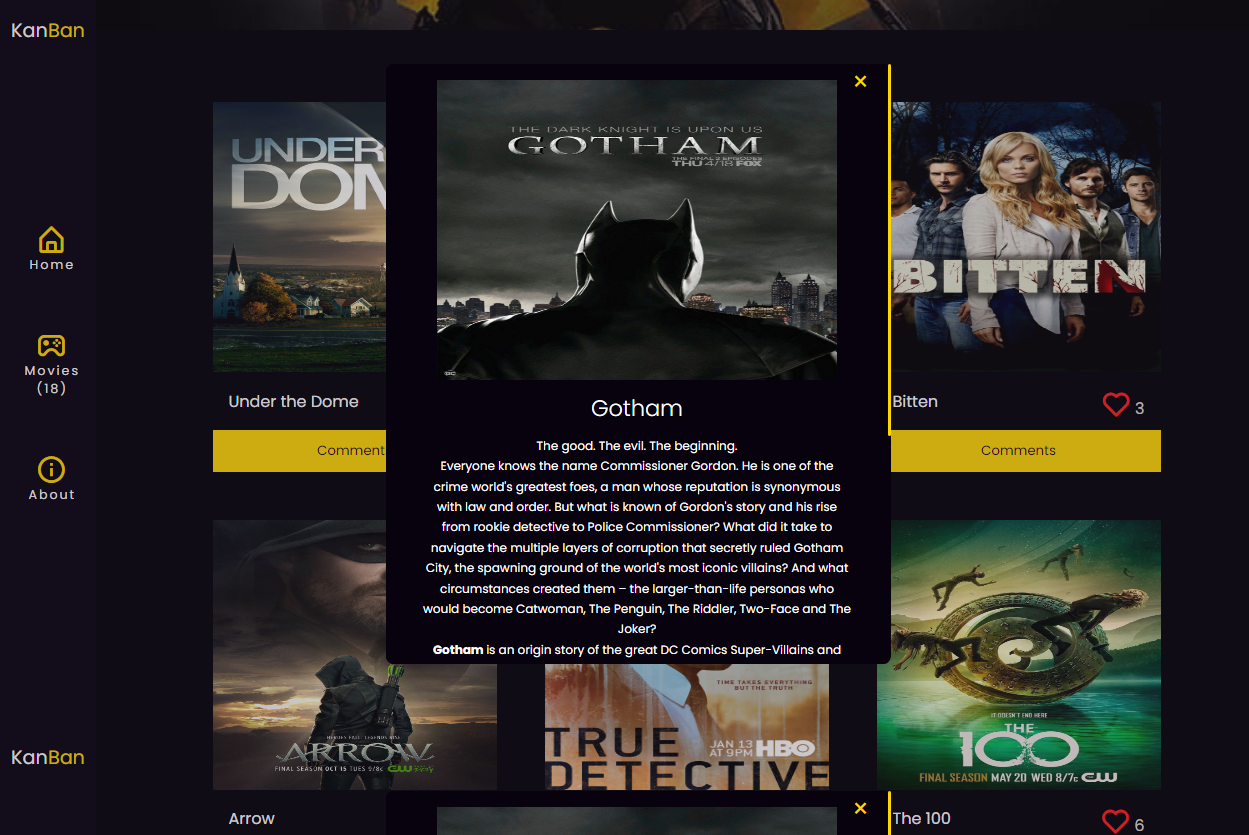
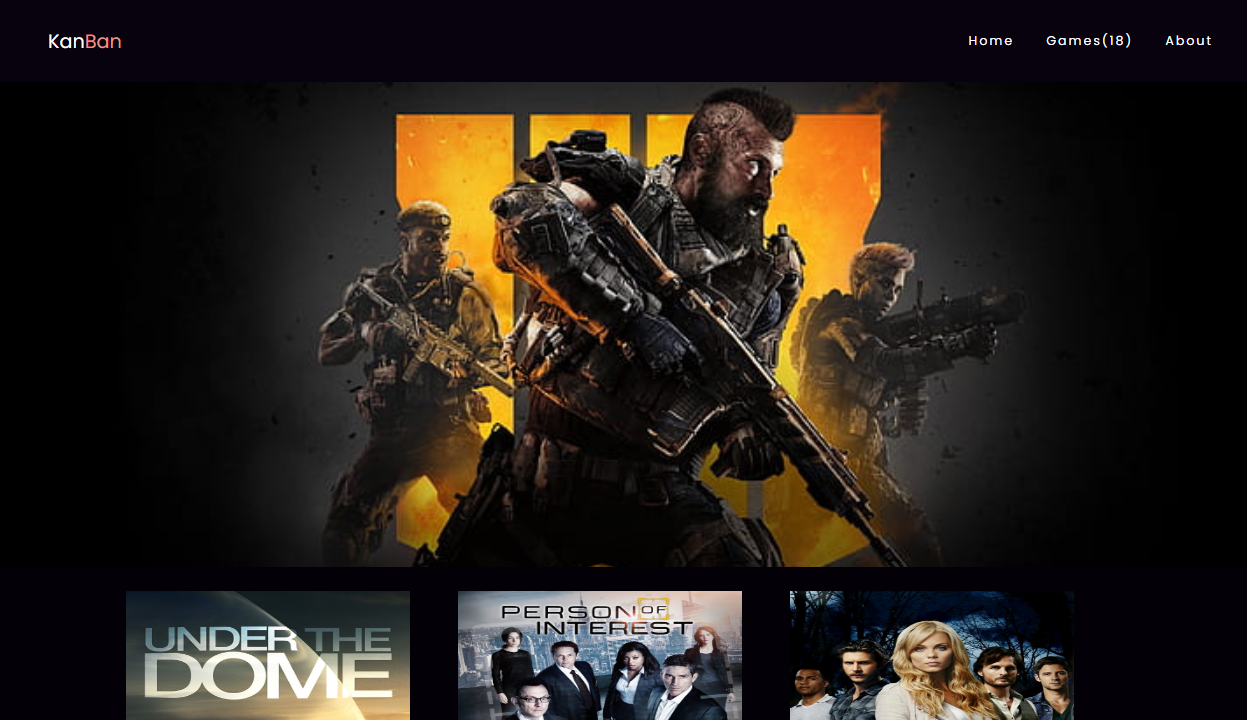
Update color

diff --git a/src/module/modal.js b/src/module/modal.js
@@ -20,7 +20,7 @@ const modal = async (data, index) => {
       <div class="comment-details">
         <h2 class="heading">Comments <span>(${commentData.length})</span></h2>`;
   commentData.map((comment) => modalContainer.innerHTML += `<div class="comment flex">
-          <p class="comment-date">${comment.creation_date}</p>
+          <p class="comment-date">${comment.creation_date} ${comment.username} :</p>
           <p class="comment-msg">${comment.comment}</p>
           </div>
           `);
@@ -28,12 +28,14 @@ const modal = async (data, index) => {
     </div>
     <div class="comment-form">
       <form class="">
+      <h2 class="heading">Add a comment</h2>
         <input type="text" placeholder="Enter your name" />
         <textarea placeholder="Enter your comment here"></textarea>
         <button type="submit" class="btn flex">Submit</button>
       </form>
       <i class='bx bx-x'></i>
     </div>`;
+
   const form = document.querySelector('form');
   form.addEventListener('submit', (e) => {
     e.preventDefault();

diff --git a/src/module/getData.js b/src/module/getData.js
@@ -1,13 +1,14 @@
 /* eslint-disable import/no-cycle */
 import cards from './cards.js';
+import counter from './counter.js';
 
 const getData = async () => {
   const response = await fetch('https://api.tvmaze.com/shows');
   const getJsonObj = await response.json();
   const result = getJsonObj.slice(0, 18);
-  const likes = await fetch(
-    'https://us-central1-involvement-api.cloudfunctions.net/capstoneApi/apps/5cAzmpr4jeQVeyEjNyKs/likes',
-  );
+  counter(result.length);
+
+  const likes = await fetch('https://us-central1-involvement-api.cloudfunctions.net/capstoneApi/apps/5cAzmpr4jeQVeyEjNyKs/likes');
   const res = await likes.json();
   cards(result, res);
 };

diff --git a/src/style.css b/src/style.css
@@ -2,7 +2,7 @@
 
 ::-webkit-scrollbar {
   width: 3px;
-  background-color: transparent;
+  background-color: rgb(7, 2, 13);
 }
 
 ::-webkit-scrollbar-thumb {
@@ -88,7 +88,6 @@ a.logo {
 }
 
 .nav-link {
-  flex-direction: column;
   align-items: center;
   font-size: 0.788rem;
   letter-spacing: 2px;
@@ -143,7 +142,6 @@ a.logo {
   padding: 0 1em;
   justify-content: center;
   flex-wrap: wrap;
-  margin-top: 3rem;
 }
 
 .card {
@@ -167,6 +165,7 @@ a.logo {
 .like {
   color: rgb(224, 221, 221);
   align-items: flex-end;
+  flex-direction: column;
 }
 
 .like .bx-heart {

diff --git a/src/module/cards.js b/src/module/cards.js
@@ -16,7 +16,7 @@ const cards = (games, data) => {
         <span class="details">${game.name}</span>
         <div class="like flex">
           <i class="bx bx-heart" data-id="${index}"></i>
-          <span>${msgLikes}</span>
+          <span>${msgLikes} Likes</span>
         </div>
       </div>
       <button id="pop-up" data-id="${index}">Comments</button>

diff --git a/src/index.js b/src/index.js
@@ -1,4 +1,4 @@
 import './style.css';
-import getData from './module/getData.js';
+import { getData } from './module/getData.js';
 
 getData();
